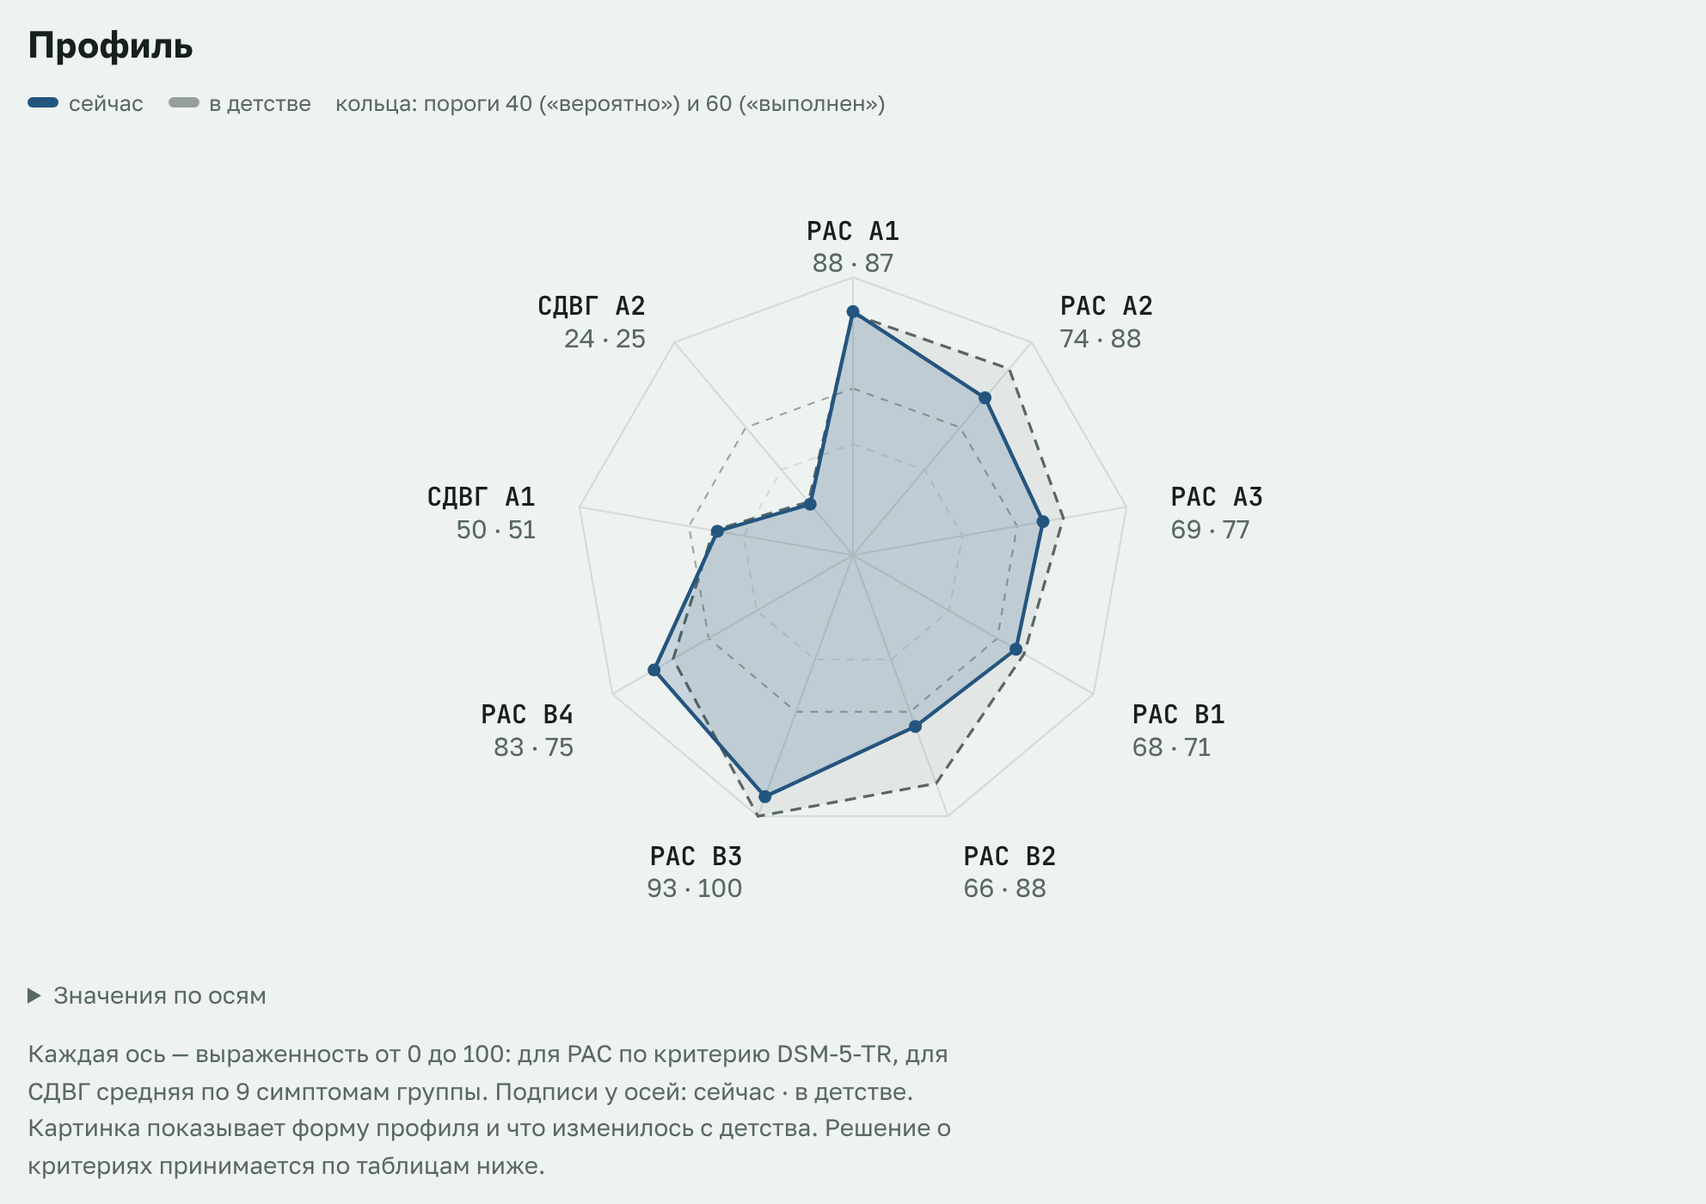
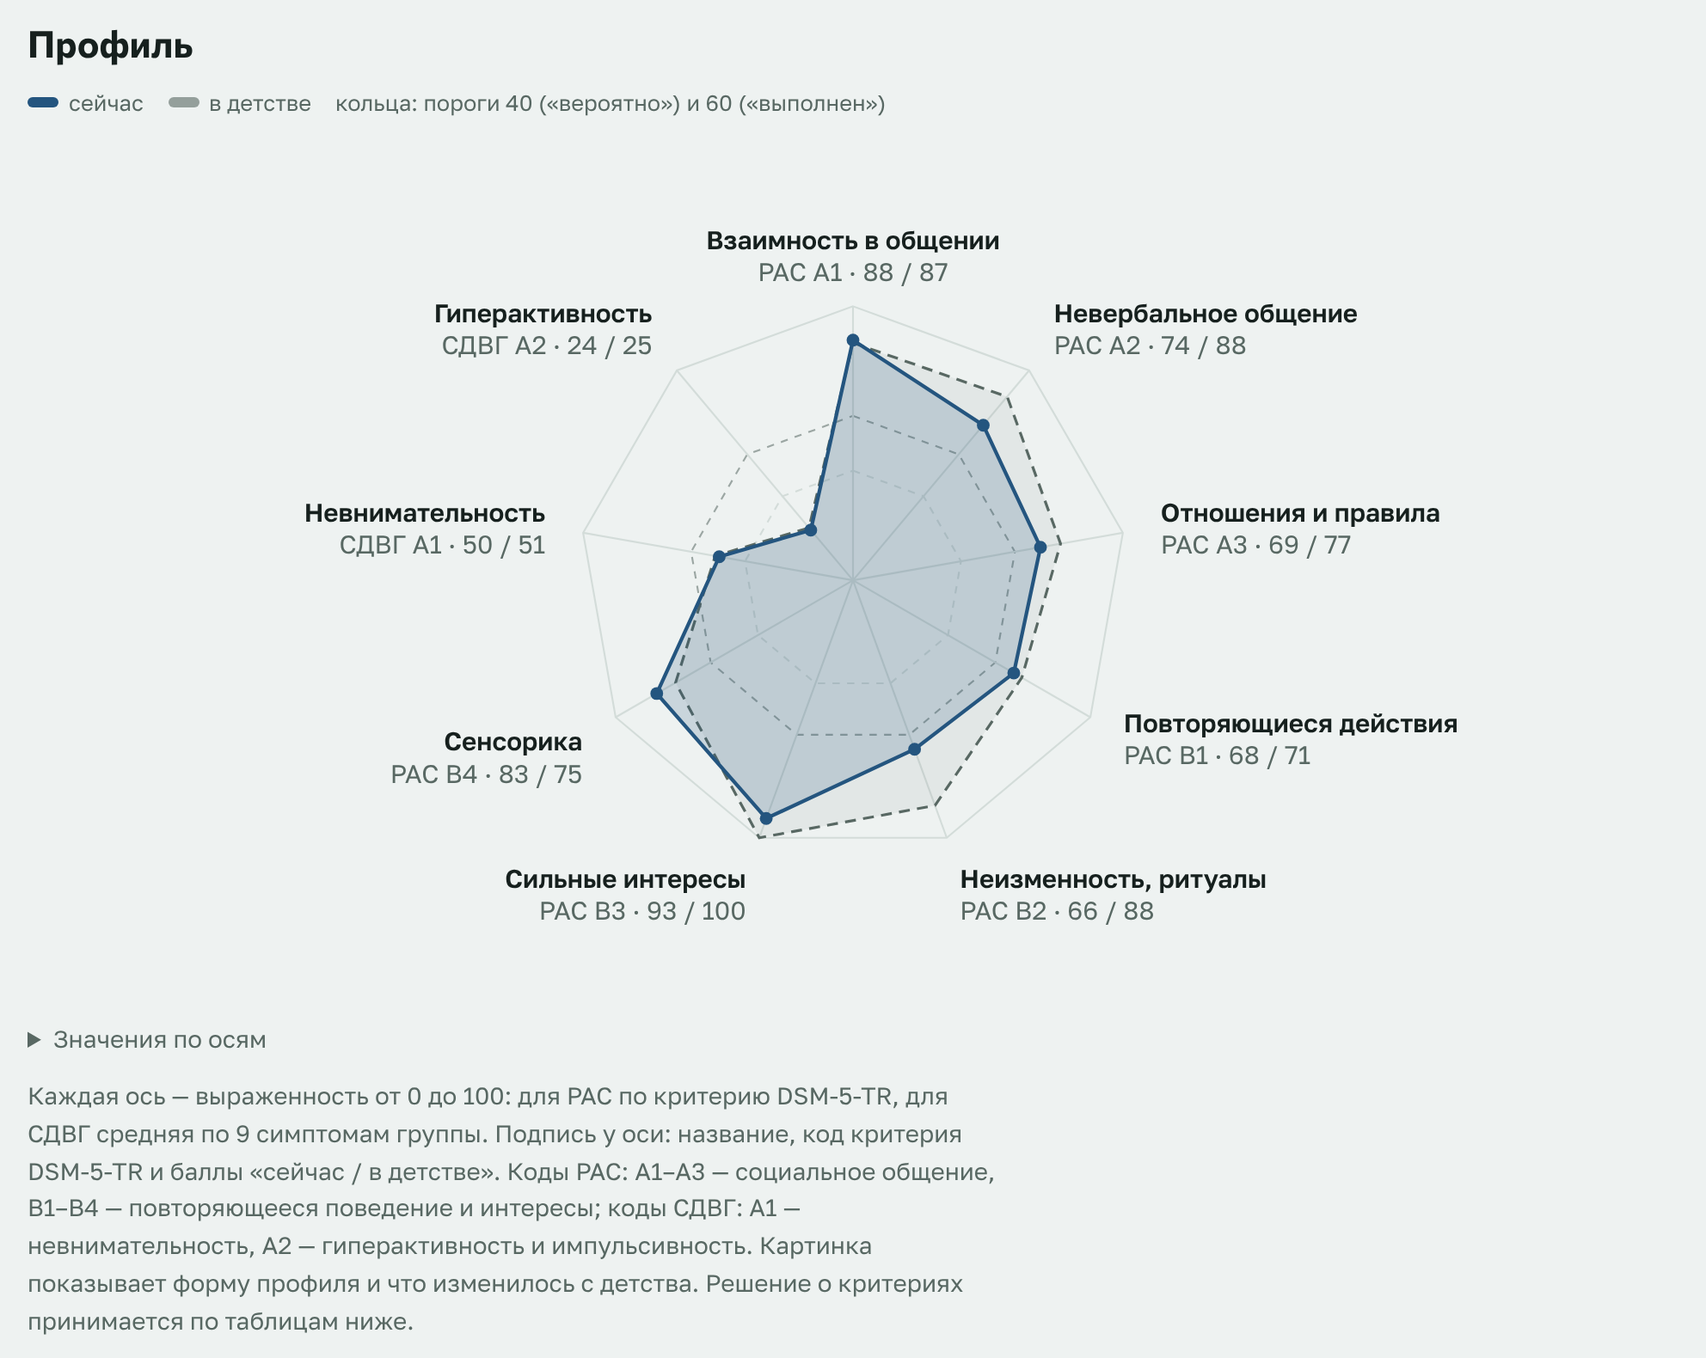
Radar: plain-language axis names with criterion codes; numbered axes with a key on phones
Claude-Session: https://claude.ai/code/session_01Jy1v1oN3Y2bKLuoMN7sQ5k

diff --git a/dist/app.js b/dist/app.js
@@ -283,26 +283,32 @@
   function radarBlock(E) {
     const C = E.constructs, S = E.symptoms;
     const grp = (pre, p) => { const xs = Object.keys(ND.ADHD_SYMPTOMS).filter((s) => s.startsWith(pre)).map((s) => S[s][p]); return xs.some((x) => x.status !== ST.NODATA) ? xs.reduce((a, x) => a + x.s, 0) / xs.length : null; };
+    // короткие названия для подписей на картинке; полные — в списке под ней и в таблицах
+    const SHORT = { "ASD.A1": "Взаимность в общении", "ASD.A2": "Невербальное общение", "ASD.A3": "Отношения и правила", "ASD.B1": "Повторяющиеся действия",
+      "ASD.B2": "Неизменность, ритуалы", "ASD.B3": "Сильные интересы", "ASD.B4": "Сенсорика" };
     const axes = [
-      ...["ASD.A1", "ASD.A2", "ASD.A3", "ASD.B1", "ASD.B2", "ASD.B3", "ASD.B4"].map((cid) => ({ code: ND.CONSTRUCTS[cid].dsm, label: ND.CONSTRUCTS[cid].label, g: "РАС",
+      ...["ASD.A1", "ASD.A2", "ASD.A3", "ASD.B1", "ASD.B2", "ASD.B3", "ASD.B4"].map((cid) => ({ code: ND.CONSTRUCTS[cid].dsm, short: SHORT[cid], label: ND.CONSTRUCTS[cid].label, g: "РАС",
         now: C[cid].now.n ? C[cid].now.s : null, child: C[cid].child.n ? C[cid].child.s : null })),
-      { code: "A1", label: "Невнимательность", g: "СДВГ", now: grp("A1", "now"), child: grp("A1", "child") },
-      { code: "A2", label: "Гиперактивность и импульсивность", g: "СДВГ", now: grp("A2", "now"), child: grp("A2", "child") },
+      { code: "A1", short: "Невнимательность", label: "Невнимательность", g: "СДВГ", now: grp("A1", "now"), child: grp("A1", "child") },
+      { code: "A2", short: "Гиперактивность", label: "Гиперактивность и импульсивность", g: "СДВГ", now: grp("A2", "now"), child: grp("A2", "child") },
     ];
     if (axes.every((a) => a.now == null)) return "";
-    const W = 520, H = 440, cx = W / 2, cy = H / 2 + 4, Rr = 150, n = axes.length;
+    const W = 640, H = 470, cx = W / 2, cy = H / 2 + 6, Rr = 150, n = axes.length;
     const ang = (i) => -Math.PI / 2 + (2 * Math.PI * i) / n;
     const pt = (i, v) => [cx + Rr * v * Math.cos(ang(i)), cy + Rr * v * Math.sin(ang(i))];
     const poly = (k) => axes.map((a, i) => pt(i, a[k] || 0).map((x) => x.toFixed(1)).join(",")).join(" ");
     const ring = (v, cls) => `<polygon class="${cls}" points="${axes.map((_, i) => pt(i, v).map((x) => x.toFixed(1)).join(",")).join(" ")}"/>`;
     const spokes = axes.map((_, i) => { const [x, y] = pt(i, 1); return `<line class="spoke" x1="${cx}" y1="${cy}" x2="${x.toFixed(1)}" y2="${y.toFixed(1)}"/>`; }).join("");
     const labels = axes.map((a, i) => {
-      const [x, y] = pt(i, 1.16), c = Math.cos(ang(i));
+      const [x, y0] = pt(i, 1.14), c = Math.cos(ang(i)), sn = Math.sin(ang(i));
+      const y = y0 - (sn < -0.5 ? 14 : sn > 0.5 ? -4 : 6);
       const anchor = Math.abs(c) < 0.2 ? "middle" : c > 0 ? "start" : "end";
-      return `<text class="lbl" x="${x.toFixed(1)}" y="${y.toFixed(1)}" text-anchor="${anchor}" dominant-baseline="middle"><tspan class="lbl-g">${a.g} ${a.code}</tspan><tspan x="${x.toFixed(1)}" dy="1.25em">${pct(a.now || 0)}${a.child != null ? ` · ${pct(a.child)}` : ""}</tspan></text>`;
+      const [nx, ny] = pt(i, 1.1);
+      return `<text class="lbl lbl-full" x="${x.toFixed(1)}" y="${y.toFixed(1)}" text-anchor="${anchor}" dominant-baseline="middle"><tspan class="lbl-g">${esc(a.short)}</tspan><tspan x="${x.toFixed(1)}" dy="1.25em">${a.g} ${a.code} · ${pct(a.now || 0)}${a.child != null ? ` / ${pct(a.child)}` : ""}</tspan></text>` +
+        `<text class="lbl-num" x="${nx.toFixed(1)}" y="${ny.toFixed(1)}" text-anchor="middle" dominant-baseline="middle">${i + 1}</text>`;
     }).join("");
     const hasChild = axes.some((a) => a.child != null);
-    const rows = axes.map((a) => `<li><b class="mono">${a.g} ${a.code}</b> ${esc(a.label)}: сейчас ${a.now == null ? "—" : pct(a.now)}, в детстве ${a.child == null ? "—" : pct(a.child)}</li>`).join("");
+    const rows = axes.map((a, i) => `<li><b class="mono">${i + 1}</b> ${esc(a.label)} <span class="muted">(${a.g} ${a.code})</span>: сейчас ${a.now == null ? "—" : pct(a.now)}, в детстве ${a.child == null ? "—" : pct(a.child)}</li>`).join("");
     return `<section class="block"><h2>Профиль</h2>
       <div class="legend"><span><i class="sw"></i>сейчас</span>${hasChild ? `<span><i class="sw child"></i>в детстве</span>` : ""}<span>кольца: пороги 40 («вероятно») и 60 («выполнен»)</span></div>
       <div class="radar"><svg viewBox="0 0 ${W} ${H}" role="img" aria-label="Профиль признаков: выраженность критериев РАС и групп симптомов СДВГ сейчас и в детстве">
@@ -312,8 +318,9 @@
         ${axes.map((a, i) => { const [x, y] = pt(i, a.now || 0); return `<circle class="d-now" cx="${x.toFixed(1)}" cy="${y.toFixed(1)}" r="3.5"/>`; }).join("")}
         ${labels}
       </svg></div>
-      <details class="small muted"><summary>Значения по осям</summary><ul class="stack">${rows}</ul></details>
-      <p class="small muted">Каждая ось — выраженность от 0 до 100: для РАС по критерию DSM-5-TR, для СДВГ средняя по 9 симптомам группы. Подписи у осей: сейчас · в детстве. Картинка показывает форму профиля и что изменилось с детства. Решение о критериях принимается по таблицам ниже.</p></section>`;
+      <ul class="radar-key small">${rows}</ul>
+      <details class="small muted radar-more"><summary>Значения по осям</summary><ul class="stack">${rows}</ul></details>
+      <p class="small muted">Каждая ось — выраженность от 0 до 100: для РАС по критерию DSM-5-TR, для СДВГ средняя по 9 симптомам группы. Подпись у оси: название, код критерия DSM-5-TR и баллы «сейчас / в детстве». Коды РАС: A1–A3 — социальное общение, B1–B4 — повторяющееся поведение и интересы; коды СДВГ: A1 — невнимательность, A2 — гиперактивность и импульсивность. Картинка показывает форму профиля и что изменилось с детства. Решение о критериях принимается по таблицам ниже.</p></section>`;
   }
 
   // «Что может помочь»: проверенные методики по выраженным признакам (src/support.js)

diff --git a/src/app.js b/src/app.js
@@ -283,26 +283,32 @@
   function radarBlock(E) {
     const C = E.constructs, S = E.symptoms;
     const grp = (pre, p) => { const xs = Object.keys(ND.ADHD_SYMPTOMS).filter((s) => s.startsWith(pre)).map((s) => S[s][p]); return xs.some((x) => x.status !== ST.NODATA) ? xs.reduce((a, x) => a + x.s, 0) / xs.length : null; };
+    // короткие названия для подписей на картинке; полные — в списке под ней и в таблицах
+    const SHORT = { "ASD.A1": "Взаимность в общении", "ASD.A2": "Невербальное общение", "ASD.A3": "Отношения и правила", "ASD.B1": "Повторяющиеся действия",
+      "ASD.B2": "Неизменность, ритуалы", "ASD.B3": "Сильные интересы", "ASD.B4": "Сенсорика" };
     const axes = [
-      ...["ASD.A1", "ASD.A2", "ASD.A3", "ASD.B1", "ASD.B2", "ASD.B3", "ASD.B4"].map((cid) => ({ code: ND.CONSTRUCTS[cid].dsm, label: ND.CONSTRUCTS[cid].label, g: "РАС",
+      ...["ASD.A1", "ASD.A2", "ASD.A3", "ASD.B1", "ASD.B2", "ASD.B3", "ASD.B4"].map((cid) => ({ code: ND.CONSTRUCTS[cid].dsm, short: SHORT[cid], label: ND.CONSTRUCTS[cid].label, g: "РАС",
         now: C[cid].now.n ? C[cid].now.s : null, child: C[cid].child.n ? C[cid].child.s : null })),
-      { code: "A1", label: "Невнимательность", g: "СДВГ", now: grp("A1", "now"), child: grp("A1", "child") },
-      { code: "A2", label: "Гиперактивность и импульсивность", g: "СДВГ", now: grp("A2", "now"), child: grp("A2", "child") },
+      { code: "A1", short: "Невнимательность", label: "Невнимательность", g: "СДВГ", now: grp("A1", "now"), child: grp("A1", "child") },
+      { code: "A2", short: "Гиперактивность", label: "Гиперактивность и импульсивность", g: "СДВГ", now: grp("A2", "now"), child: grp("A2", "child") },
     ];
     if (axes.every((a) => a.now == null)) return "";
-    const W = 520, H = 440, cx = W / 2, cy = H / 2 + 4, Rr = 150, n = axes.length;
+    const W = 640, H = 470, cx = W / 2, cy = H / 2 + 6, Rr = 150, n = axes.length;
     const ang = (i) => -Math.PI / 2 + (2 * Math.PI * i) / n;
     const pt = (i, v) => [cx + Rr * v * Math.cos(ang(i)), cy + Rr * v * Math.sin(ang(i))];
     const poly = (k) => axes.map((a, i) => pt(i, a[k] || 0).map((x) => x.toFixed(1)).join(",")).join(" ");
     const ring = (v, cls) => `<polygon class="${cls}" points="${axes.map((_, i) => pt(i, v).map((x) => x.toFixed(1)).join(",")).join(" ")}"/>`;
     const spokes = axes.map((_, i) => { const [x, y] = pt(i, 1); return `<line class="spoke" x1="${cx}" y1="${cy}" x2="${x.toFixed(1)}" y2="${y.toFixed(1)}"/>`; }).join("");
     const labels = axes.map((a, i) => {
-      const [x, y] = pt(i, 1.16), c = Math.cos(ang(i));
+      const [x, y0] = pt(i, 1.14), c = Math.cos(ang(i)), sn = Math.sin(ang(i));
+      const y = y0 - (sn < -0.5 ? 14 : sn > 0.5 ? -4 : 6);
       const anchor = Math.abs(c) < 0.2 ? "middle" : c > 0 ? "start" : "end";
-      return `<text class="lbl" x="${x.toFixed(1)}" y="${y.toFixed(1)}" text-anchor="${anchor}" dominant-baseline="middle"><tspan class="lbl-g">${a.g} ${a.code}</tspan><tspan x="${x.toFixed(1)}" dy="1.25em">${pct(a.now || 0)}${a.child != null ? ` · ${pct(a.child)}` : ""}</tspan></text>`;
+      const [nx, ny] = pt(i, 1.1);
+      return `<text class="lbl lbl-full" x="${x.toFixed(1)}" y="${y.toFixed(1)}" text-anchor="${anchor}" dominant-baseline="middle"><tspan class="lbl-g">${esc(a.short)}</tspan><tspan x="${x.toFixed(1)}" dy="1.25em">${a.g} ${a.code} · ${pct(a.now || 0)}${a.child != null ? ` / ${pct(a.child)}` : ""}</tspan></text>` +
+        `<text class="lbl-num" x="${nx.toFixed(1)}" y="${ny.toFixed(1)}" text-anchor="middle" dominant-baseline="middle">${i + 1}</text>`;
     }).join("");
     const hasChild = axes.some((a) => a.child != null);
-    const rows = axes.map((a) => `<li><b class="mono">${a.g} ${a.code}</b> ${esc(a.label)}: сейчас ${a.now == null ? "—" : pct(a.now)}, в детстве ${a.child == null ? "—" : pct(a.child)}</li>`).join("");
+    const rows = axes.map((a, i) => `<li><b class="mono">${i + 1}</b> ${esc(a.label)} <span class="muted">(${a.g} ${a.code})</span>: сейчас ${a.now == null ? "—" : pct(a.now)}, в детстве ${a.child == null ? "—" : pct(a.child)}</li>`).join("");
     return `<section class="block"><h2>Профиль</h2>
       <div class="legend"><span><i class="sw"></i>сейчас</span>${hasChild ? `<span><i class="sw child"></i>в детстве</span>` : ""}<span>кольца: пороги 40 («вероятно») и 60 («выполнен»)</span></div>
       <div class="radar"><svg viewBox="0 0 ${W} ${H}" role="img" aria-label="Профиль признаков: выраженность критериев РАС и групп симптомов СДВГ сейчас и в детстве">
@@ -312,8 +318,9 @@
         ${axes.map((a, i) => { const [x, y] = pt(i, a.now || 0); return `<circle class="d-now" cx="${x.toFixed(1)}" cy="${y.toFixed(1)}" r="3.5"/>`; }).join("")}
         ${labels}
       </svg></div>
-      <details class="small muted"><summary>Значения по осям</summary><ul class="stack">${rows}</ul></details>
-      <p class="small muted">Каждая ось — выраженность от 0 до 100: для РАС по критерию DSM-5-TR, для СДВГ средняя по 9 симптомам группы. Подписи у осей: сейчас · в детстве. Картинка показывает форму профиля и что изменилось с детства. Решение о критериях принимается по таблицам ниже.</p></section>`;
+      <ul class="radar-key small">${rows}</ul>
+      <details class="small muted radar-more"><summary>Значения по осям</summary><ul class="stack">${rows}</ul></details>
+      <p class="small muted">Каждая ось — выраженность от 0 до 100: для РАС по критерию DSM-5-TR, для СДВГ средняя по 9 симптомам группы. Подпись у оси: название, код критерия DSM-5-TR и баллы «сейчас / в детстве». Коды РАС: A1–A3 — социальное общение, B1–B4 — повторяющееся поведение и интересы; коды СДВГ: A1 — невнимательность, A2 — гиперактивность и импульсивность. Картинка показывает форму профиля и что изменилось с детства. Решение о критериях принимается по таблицам ниже.</p></section>`;
   }
 
   // «Что может помочь»: проверенные методики по выраженным признакам (src/support.js)

diff --git a/dist/style.css b/dist/style.css
@@ -182,7 +182,7 @@ ul.ev { margin: 0; padding-left: 1.1em; display: grid; gap: 6px; font-size: 0.9r
 .conflict p { margin: 0; }
 @media (max-width: 560px) { .conflict { margin-left: 0; } }
 .conflict li .btn.small { padding: 2px 10px; min-height: 0; font-size: 0.85rem; }
-.radar { max-width: 560px; margin: 0 auto; width: 100%; }
+.radar { max-width: 680px; margin: 0 auto; width: 100%; }
 .radar svg { width: 100%; height: auto; display: block; overflow: visible; }
 .radar .r-out { fill: none; stroke: var(--line); }
 .radar .r-hi, .radar .r-lo { fill: none; stroke: var(--line); stroke-dasharray: 4 4; }
@@ -192,7 +192,7 @@ ul.ev { margin: 0; padding-left: 1.1em; display: grid; gap: 6px; font-size: 0.9r
 .radar .p-child { fill: var(--muted); fill-opacity: 0.08; stroke: var(--muted); stroke-width: 1.5; stroke-dasharray: 6 4; }
 .radar .d-now { fill: var(--accent); }
 .radar .lbl { font: 14px var(--font-body); fill: var(--muted); }
-.radar .lbl-g { font-family: var(--font-mono); font-weight: 600; fill: var(--ink); }
+.radar .lbl-g { font-weight: 600; fill: var(--ink); }
 .support { display: grid; gap: 6px; padding: 14px 16px; border: 1px solid var(--line); border-radius: var(--r); background: var(--surface); }
 .support h3 { margin: 0; }
 .support summary { cursor: pointer; }
@@ -202,3 +202,12 @@ ul.sup li { display: grid; gap: 3px; padding-left: 12px; border-left: 2px solid 
 .evtag-rec { border-color: var(--accent); color: var(--accent); }
 .evtag-rct { border-color: var(--accent); color: var(--accent); background: var(--accent-soft); }
 .evtag-lived { border-style: dashed; }
+.radar .lbl-num { display: none; font: 600 24px var(--font-mono); fill: var(--ink); }
+.radar-key { display: none; list-style: none; margin: 0; padding: 0; gap: 4px; }
+.radar-key b { display: inline-block; min-width: 1.4em; }
+@media (max-width: 600px) {
+  .radar .lbl-full { display: none; }
+  .radar .lbl-num { display: inline; }
+  .radar-key { display: grid; }
+  .radar-more { display: none; }
+}

diff --git a/src/style.css b/src/style.css
@@ -182,7 +182,7 @@ ul.ev { margin: 0; padding-left: 1.1em; display: grid; gap: 6px; font-size: 0.9r
 .conflict p { margin: 0; }
 @media (max-width: 560px) { .conflict { margin-left: 0; } }
 .conflict li .btn.small { padding: 2px 10px; min-height: 0; font-size: 0.85rem; }
-.radar { max-width: 560px; margin: 0 auto; width: 100%; }
+.radar { max-width: 680px; margin: 0 auto; width: 100%; }
 .radar svg { width: 100%; height: auto; display: block; overflow: visible; }
 .radar .r-out { fill: none; stroke: var(--line); }
 .radar .r-hi, .radar .r-lo { fill: none; stroke: var(--line); stroke-dasharray: 4 4; }
@@ -192,7 +192,7 @@ ul.ev { margin: 0; padding-left: 1.1em; display: grid; gap: 6px; font-size: 0.9r
 .radar .p-child { fill: var(--muted); fill-opacity: 0.08; stroke: var(--muted); stroke-width: 1.5; stroke-dasharray: 6 4; }
 .radar .d-now { fill: var(--accent); }
 .radar .lbl { font: 14px var(--font-body); fill: var(--muted); }
-.radar .lbl-g { font-family: var(--font-mono); font-weight: 600; fill: var(--ink); }
+.radar .lbl-g { font-weight: 600; fill: var(--ink); }
 .support { display: grid; gap: 6px; padding: 14px 16px; border: 1px solid var(--line); border-radius: var(--r); background: var(--surface); }
 .support h3 { margin: 0; }
 .support summary { cursor: pointer; }
@@ -202,3 +202,12 @@ ul.sup li { display: grid; gap: 3px; padding-left: 12px; border-left: 2px solid 
 .evtag-rec { border-color: var(--accent); color: var(--accent); }
 .evtag-rct { border-color: var(--accent); color: var(--accent); background: var(--accent-soft); }
 .evtag-lived { border-style: dashed; }
+.radar .lbl-num { display: none; font: 600 24px var(--font-mono); fill: var(--ink); }
+.radar-key { display: none; list-style: none; margin: 0; padding: 0; gap: 4px; }
+.radar-key b { display: inline-block; min-width: 1.4em; }
+@media (max-width: 600px) {
+  .radar .lbl-full { display: none; }
+  .radar .lbl-num { display: inline; }
+  .radar-key { display: grid; }
+  .radar-more { display: none; }
+}
